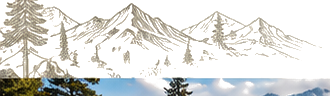
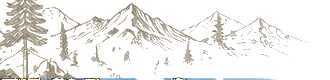
Add files via upload

diff --git a/src/components/homepage/ExploreByRegion.module.css b/src/components/homepage/ExploreByRegion.module.css
@@ -78,15 +78,15 @@
 .pills span { border:1px solid rgba(255,255,255,.34); color:#fff; padding:6px 10px; font:700 8px/1 var(--font-lato),Arial,sans-serif; letter-spacing:.35px; }
 .exploreButton { align-self:flex-start; background:#e4b956; color:#17371d; text-decoration:none; padding:11px 16px; font:800 9px/1 var(--font-lato),Arial,sans-serif; }
 .storyMountain,.storyPine,.productMountains,.nextBotanical { position:absolute; pointer-events:none; }
-.storyMountain { right:58px; top:72px; width:100px; height:auto; mix-blend-mode:screen; opacity:.92; z-index:2; }
-.storyPine { right:0; bottom:-2px; width:112px; height:auto; mix-blend-mode:screen; opacity:.78; z-index:2; }
+.storyMountain { right:58px; top:72px; width:100px; height:auto; opacity:.92; z-index:2; }
+.storyPine { right:0; bottom:-2px; width:112px; height:auto; opacity:.78; z-index:2; }
 
 .productsRow { display:grid; grid-template-columns: 300px minmax(0,1fr); gap:20px; align-items:start; padding:28px 52px 28px; }
 .productsCopy { position:relative; min-height:282px; overflow:hidden; padding-top:2px; }
 .productsCopy h3 { color:var(--ink); font-size:clamp(40px,4vw,55px); line-height:.91; }
 .productsCopy p { max-width:245px; margin:13px 0 15px; color:#565b54; font:400 11px/1.55 var(--font-lato),Arial,sans-serif; }
 .productsLink { position:relative; z-index:2; display:inline-block; border-bottom:1px solid var(--ink); padding-bottom:5px; color:var(--ink); text-decoration:none; font:800 9px/1.2 var(--font-lato),Arial,sans-serif; }
-.productMountains { left:-2px; bottom:-5px; width:300px; height:auto; mix-blend-mode:multiply; opacity:.62; }
+.productMountains { left:-2px; bottom:-5px; width:300px; height:auto; opacity:.55; }
 .productGrid { display:grid; grid-template-columns:repeat(4,minmax(0,1fr)); gap:10px; align-items:stretch; }
 .productGrid :global(.pcard) { width:100% !important; min-width:0 !important; max-width:none !important; border-radius:12px; }
 .empty { padding:50px 0; color:#666; }
@@ -98,7 +98,7 @@
 .nextTagline { position:relative; z-index:2; color:#a97812; font:italic 400 19px/1.2 var(--font-playfair),Georgia,serif; margin-top:5px; }
 .nextCopy p { position:relative; z-index:2; max-width:325px; margin:12px 0 17px; color:#5a5d55; font:400 10.5px/1.55 var(--font-lato),Arial,sans-serif; }
 .nextLink { position:relative; z-index:2; align-self:flex-start; border:0; background:transparent; border-bottom:1px solid var(--ink); padding:0 0 5px; color:var(--ink); cursor:pointer; font:800 9px/1.2 var(--font-lato),Arial,sans-serif; }
-.nextBotanical { right:0; bottom:-4px; width:104px; height:auto; mix-blend-mode:multiply; opacity:.72; }
+.nextBotanical { right:0; bottom:-4px; width:104px; height:auto; opacity:.62; }
 
 @media (max-width: 1000px) {
   .header,.regionNav,.productsRow { padding-left:24px; padding-right:24px; }
@@ -125,15 +125,21 @@
   .nextCopy { padding:38px 30px 44px; }
 }
 
-/* Reference-demo artwork: transparent linework, no baked background blocks. */
-.storyMountain,
-.storyPine,
-.productMountains,
-.nextBotanical {
-  filter: none !important;
-  -webkit-filter: none !important;
+/* ARTWORK FIX: transparent editorial engraving, never a rectangular image block */
+.productMountains{
+  z-index:0;
+  pointer-events:none;
+  display:block;
+  object-fit:contain;
+  object-position:left bottom;
+  max-width:100%;
 }
-.storyMountain { right: 56px; top: 68px; width: 100px; mix-blend-mode: normal; opacity: .95; }
-.storyPine { right: 0; bottom: -2px; width: 112px; mix-blend-mode: normal; opacity: .82; }
-.productMountains { left: 0; bottom: -3px; width: 300px; mix-blend-mode: normal; opacity: .72; }
-.nextBotanical { right: 0; bottom: -3px; width: 104px; mix-blend-mode: normal; opacity: .76; }
+.productsCopy > *:not(.productMountains){position:relative;z-index:2;}
+.nextBotanical{
+  z-index:1;
+  display:block;
+  object-fit:contain;
+  object-position:right bottom;
+  pointer-events:none;
+}
+.nextCopy{isolation:isolate;}

diff --git a/src/components/homepage/ExploreByRegion.tsx b/src/components/homepage/ExploreByRegion.tsx
@@ -90,7 +90,7 @@ export default function ExploreByRegion({ states }: Props) {
               ) : <div className={styles.fallback}>🏔</div>}
             </div>
 
-            <div className={styles.story} style={{ background: meta.panelBg || '#0f3219' }}>
+            <div className={styles.story} style={{ backgroundColor: meta.panelBg || '#0f3219' }}>
               <img className={styles.storyMountain} src="/explore-region-art/story-mountain.png" alt="" aria-hidden="true" />
               <img className={styles.storyPine} src="/explore-region-art/story-pine.png" alt="" aria-hidden="true" />
 
@@ -104,7 +104,7 @@ export default function ExploreByRegion({ states }: Props) {
 
                 {meta.pills?.length > 0 && (
                   <div className={styles.pills}>
-                    {meta.pills.map(pill => <span key={pill}>{pill.replace(/^\p{Extended_Pictographic}\s*/u, '')}</span>)}
+                    {meta.pills.map(pill => <span key={pill}>{pill.replace(/^\S+\s/, '')}</span>)}
                   </div>
                 )}
 
